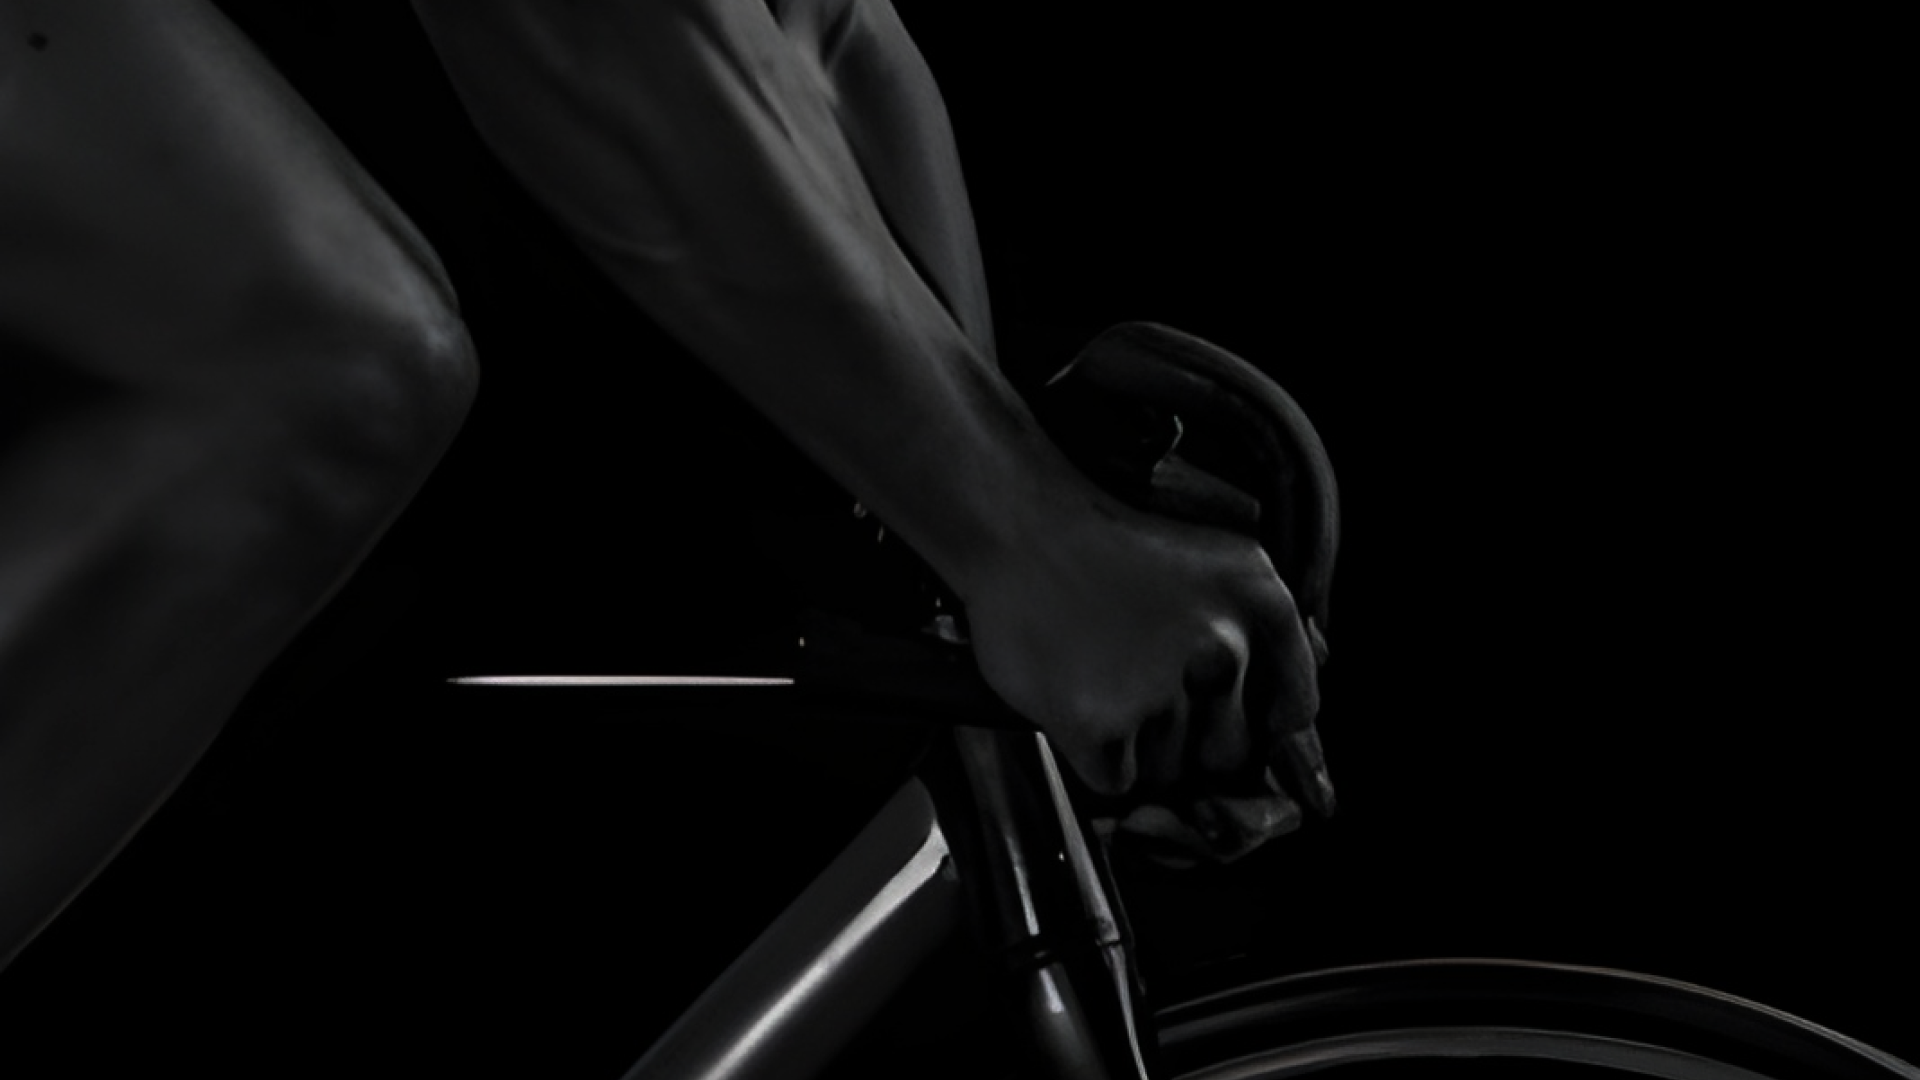
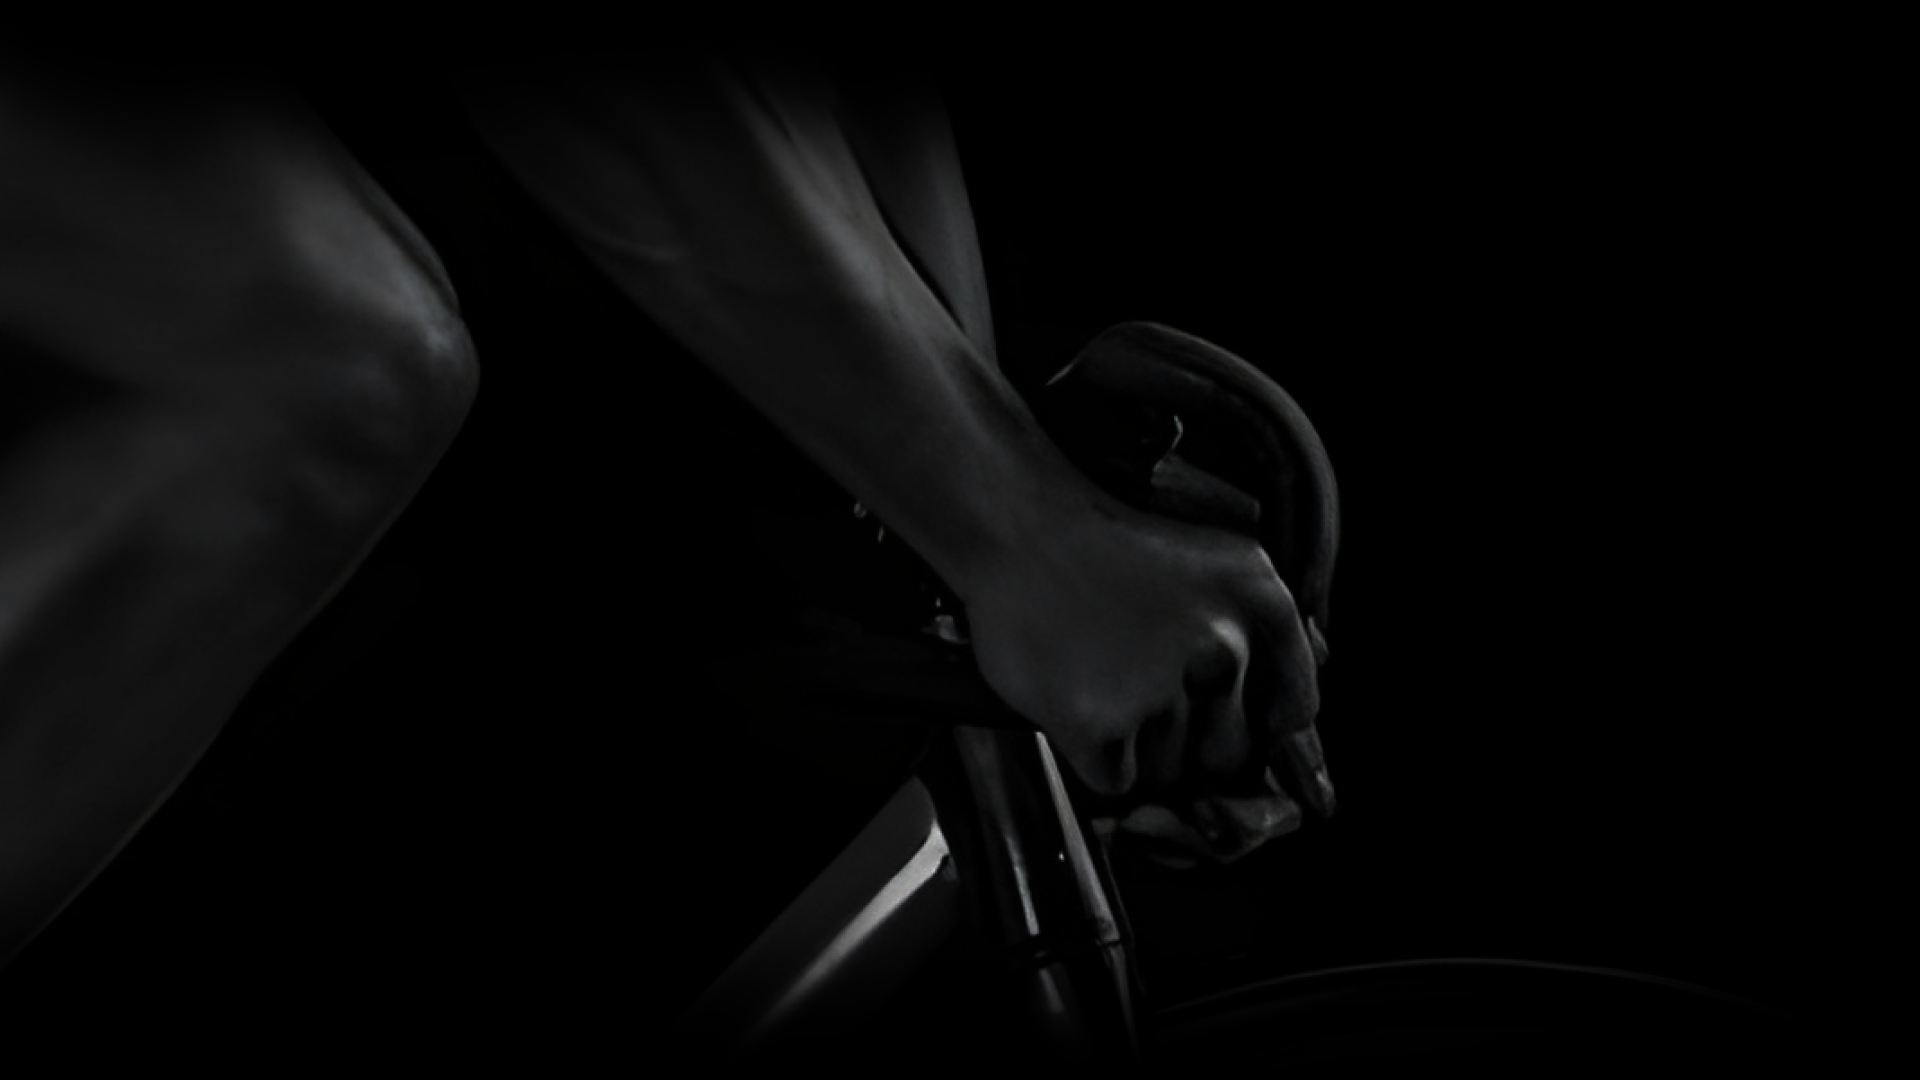
cambio fondo y fuentes

diff --git a/frontend/electroSpeed/src/app/pages/inicio/ofrecer-movilidad/ofrecer-movilidad.component.css b/frontend/electroSpeed/src/app/pages/inicio/ofrecer-movilidad/ofrecer-movilidad.component.css
@@ -1,15 +1,23 @@
+/* fuente*/
+@font-face {
+    font-family: inter-tight;
+    src: url(../../../../../fonts/Inter-tight.ttf);
+}
+
 /* centrado y tipografia    */
 .centrado {
     display: flex;
     justify-content: center;
     align-items: center;
-    height: 1080px;
+    height: 900px;
+    width: 100%;
+    font-family: inter-tight;
 }
 
 /* fondo */
 .fondo {
     background-image: url(../../../../../public/inicio/FondoCiclista.png);
-    background-size: cover;
+    background-size: contain;
 }
 
 ul { /*     posicion de cada apartado de lista      */
